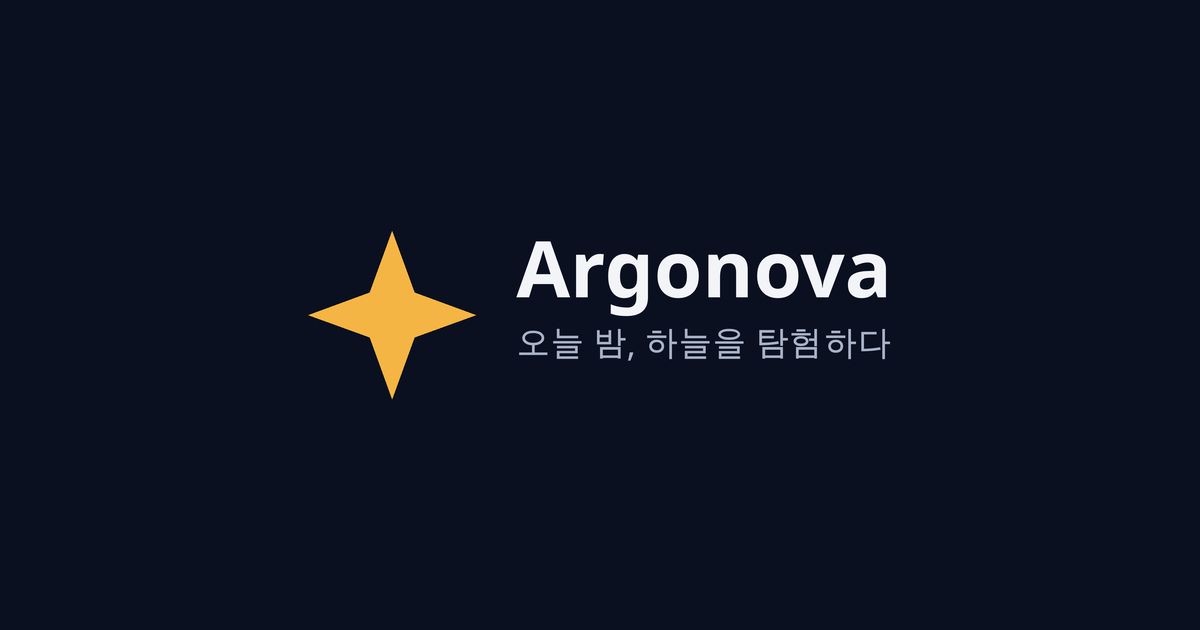
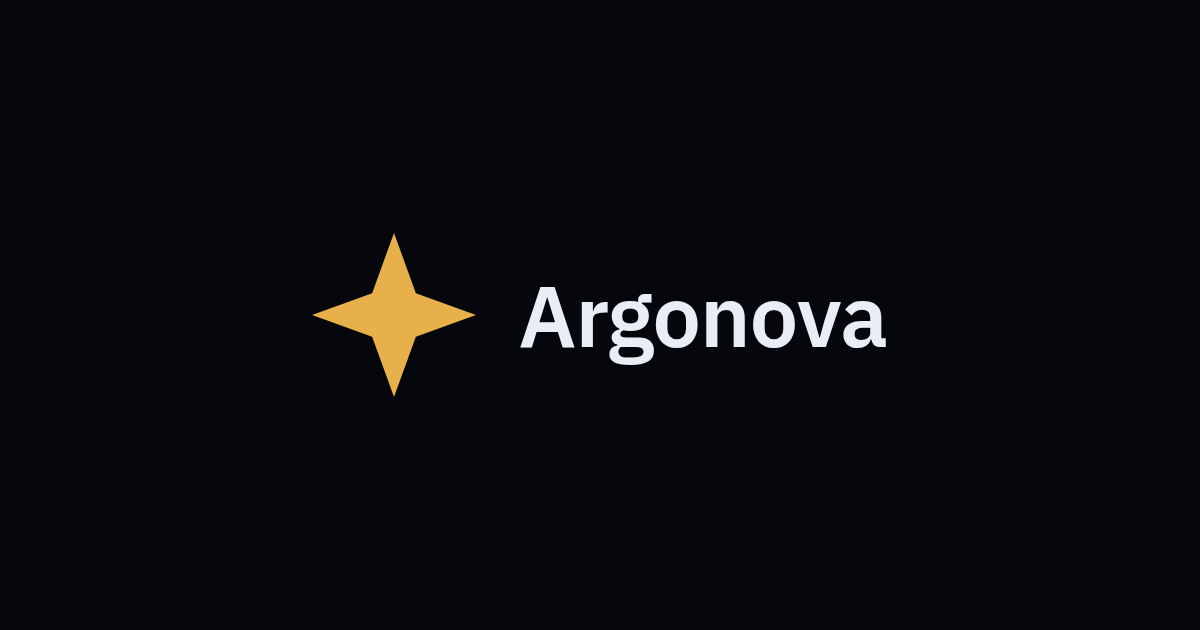
[task-27] 부제 문구 걷어내기 (#28)
* 날짜·지역을 첫 화면 제목으로 두고 부제 문구를 없앤다.

* 공유 이미지에서 부제 줄을 뺀다.

OG 카드는 앰버 별과 Argonova만 남기고 배경은 #05070D로 둔다.

---------

diff --git a/tests/i18n.test.ts b/tests/i18n.test.ts
@@ -1,6 +1,6 @@
 import { afterEach, describe, expect, it, vi } from "vitest";
 import { createApp } from "../src/app";
-import { en, ko, LANGUAGE_STORAGE_KEY, resolveLanguage, type MessageKey } from "../src/i18n";
+import { en, formatDatePlace, ko, LANGUAGE_STORAGE_KEY, resolveLanguage, type MessageKey } from "../src/i18n";
 import { formatLaunchDateTime } from "../src/launches";
 import { saveLocation } from "../src/location";
 import { directionSkyLabel, moonPhaseName } from "../src/sky";
@@ -68,6 +68,13 @@ describe("dictionaries", () => {
     }
   });
 
+  it("formats the date heading as a date and place", () => {
+    const when = new Date("2026-11-12T03:00:00.000Z");
+    expect(formatDatePlace(when, "서울", "ko")).toBe("11월 12일 (목) · 서울");
+    expect(formatDatePlace(when, "Seoul", "en")).toBe("11/12 (Thu) · Seoul");
+    expect(formatDatePlace(when, "", "ko")).toBe("11월 12일 (목)");
+  });
+
   it("keeps Hangul out of the English dictionary", () => {
     for (const [key, value] of Object.entries(en)) {
       expect(value, key).not.toMatch(HANGUL);
@@ -85,20 +92,20 @@ describe("language selection", () => {
 
     renderApp("en-US");
     expect(document.documentElement.lang).toBe("en");
-    expect(document.querySelector(".eyebrow")?.textContent).toBe("Explore tonight's sky.");
+    expect(document.querySelector("h1")?.textContent).toBe("11/12 (Thu)");
     expect(localStorage.getItem(LANGUAGE_STORAGE_KEY)).toBeNull();
   });
 
   it("keeps a saved choice ahead of the browser language", () => {
     localStorage.setItem(LANGUAGE_STORAGE_KEY, "en");
     renderApp("ko-KR");
-    expect(document.querySelector(".eyebrow")?.textContent).toBe("Explore tonight's sky.");
+    expect(document.querySelector("h1")?.textContent).toBe("11/12 (Thu)");
     expect(document.querySelector("#tab-tonight")?.getAttribute("aria-label")).toBe("Tonight");
   });
 
   it("switches language with the KO · EN button and stores the choice", () => {
     renderApp("ko-KR");
-    expect(document.querySelector(".eyebrow")?.textContent).toBe("오늘 밤, 하늘을 탐험하다");
+    expect(document.querySelector("h1")?.textContent).toBe("11월 12일 (목)");
     expect(document.querySelector("#language-button")?.textContent).toBe("KO · EN");
     expect(document.querySelector("#language-button [data-lang='ko']")?.classList.contains("is-current")).toBe(
       true,
@@ -108,7 +115,7 @@ describe("language selection", () => {
 
     expect(localStorage.getItem(LANGUAGE_STORAGE_KEY)).toBe("en");
     expect(document.documentElement.lang).toBe("en");
-    expect(document.querySelector(".eyebrow")?.textContent).toBe("Explore tonight's sky.");
+    expect(document.querySelector("h1")?.textContent).toBe("11/12 (Thu)");
     expect(document.querySelector("#tab-tonight span")?.textContent).toBe("Tonight");
     expect(document.querySelector("#desktop-tab-satellites")?.textContent).toBe("Satellite globe");
     expect(document.querySelector("#language-button [data-lang='en']")?.classList.contains("is-current")).toBe(
@@ -116,13 +123,13 @@ describe("language selection", () => {
     );
 
     document.body.innerHTML = "";
-    const again = createApp();
+    const again = createApp({ now: () => new Date("2026-11-12T12:00:00.000Z") });
     document.body.append(again);
-    expect(document.querySelector(".eyebrow")?.textContent).toBe("Explore tonight's sky.");
+    expect(document.querySelector("h1")?.textContent).toBe("11/12 (Thu)");
 
     document.querySelector<HTMLButtonElement>("#language-button")?.click();
     expect(localStorage.getItem(LANGUAGE_STORAGE_KEY)).toBe("ko");
-    expect(document.querySelector(".eyebrow")?.textContent).toBe("오늘 밤, 하늘을 탐험하다");
+    expect(document.querySelector("h1")?.textContent).toBe("11월 12일 (목)");
   });
 });
 

diff --git a/tests/copy.test.ts b/tests/copy.test.ts
@@ -1,0 +1,97 @@
+import { readdirSync, readFileSync } from "node:fs";
+import { join } from "node:path";
+import { describe, expect, it } from "vitest";
+
+declare const process: {
+  cwd(): string;
+};
+
+const ROOT = process.cwd();
+const SKIP_DIRS = new Set(["node_modules", "dist", ".git"]);
+const TEXT_EXT = new Set([
+  ".ts",
+  ".js",
+  ".mjs",
+  ".css",
+  ".html",
+  ".md",
+  ".json",
+  ".webmanifest",
+  ".svg",
+  ".yml",
+  ".txt",
+]);
+
+function readText(path: string): string {
+  return new TextDecoder().decode(readFileSync(path));
+}
+
+function relative(path: string): string {
+  const prefix = ROOT.endsWith("/") ? ROOT : `${ROOT}/`;
+  return path.startsWith(prefix) ? path.slice(prefix.length) : path;
+}
+
+function isDataPath(path: string): boolean {
+  const rel = relative(path);
+  return rel === "public/data" || rel.startsWith("public/data/");
+}
+
+function listDir(path: string): string[] | null {
+  try {
+    return readdirSync(path);
+  } catch {
+    return null;
+  }
+}
+
+function walk(dir: string, out: string[]): void {
+  const names = listDir(dir);
+  if (!names) {
+    return;
+  }
+  for (const name of names) {
+    if (SKIP_DIRS.has(name)) {
+      continue;
+    }
+    const path = join(dir, name);
+    if (isDataPath(path)) {
+      continue;
+    }
+    const children = listDir(path);
+    if (children) {
+      walk(path, out);
+      continue;
+    }
+    const dot = name.lastIndexOf(".");
+    const ext = dot >= 0 ? name.slice(dot) : "";
+    if (TEXT_EXT.has(ext)) {
+      out.push(path);
+    }
+  }
+}
+
+function filesContaining(needle: string): string[] {
+  const files: string[] = [];
+  walk(ROOT, files);
+  return files
+    .filter((file) => readText(file).includes(needle))
+    .map((file) => relative(file))
+    .sort();
+}
+
+describe("banned slogans", () => {
+  it("keeps the banned phrases only in the DESIGN.md prohibition", () => {
+    const explore = "탐" + "험";
+    const blurb = ["하늘", "위성", "발사 일정"].join(", ");
+    expect(filesContaining(explore)).toEqual(["DESIGN.md"]);
+    expect(filesContaining(blurb)).toEqual(["DESIGN.md"]);
+
+    const design = readText(join(ROOT, "DESIGN.md"));
+    const exploreLines = design.split("\n").filter((line) => line.includes(explore));
+    const blurbLines = design.split("\n").filter((line) => line.includes(blurb));
+    expect(exploreLines).toHaveLength(1);
+    expect(blurbLines).toHaveLength(1);
+    expect(exploreLines[0]).toContain("만들지 않는다");
+    expect(blurbLines[0]).toContain("만들지 않는다");
+  });
+});

diff --git a/tests/app.test.ts b/tests/app.test.ts
@@ -170,6 +170,7 @@ describe("location picker", () => {
     document.querySelector<HTMLButtonElement>("#region-busan")?.click();
 
     expect(document.querySelector("#location-label")?.textContent).toBe("부산");
+    expect(document.querySelector("h1")?.textContent).toContain(" · 부산");
     expect(JSON.parse(localStorage.getItem(LOCATION_STORAGE_KEY) ?? "{}")).toMatchObject({
       latitude: 35.2,
       longitude: 129.1,
@@ -180,7 +181,7 @@ describe("location picker", () => {
 });
 
 describe("Argonova frame", () => {
-  it("sets the page title, manifest name, and tagline to Argonova", () => {
+  it("sets the page title and manifest name to Argonova and the heading to the date", () => {
     const html = indexHtml;
     const manifest = JSON.parse(manifestText) as {
       name: string;
@@ -195,10 +196,11 @@ describe("Argonova frame", () => {
     expect(manifest.name).toBe("Argonova");
     expect(manifest.short_name).toBe("Argonova");
 
-    renderApp();
+    renderApp({ now: () => new Date("2026-11-12T03:00:00.000Z") });
     expect(document.title).toBe("Argonova");
-    expect(document.querySelector("h1")?.textContent).toBe("Argonova");
-    expect(document.querySelector(".eyebrow")?.textContent).toBe("오늘 밤, 하늘을 탐험하다");
+    expect(document.querySelector("h1")?.textContent).toBe("11월 12일 (목)");
+    expect(document.querySelector(".eyebrow")).toBeNull();
+    expect(document.querySelector("#tracked-summary")).not.toBeNull();
     expect(getComputedStyle(document.body).fontFamily).toContain("IBM Plex Sans KR");
   });
 

diff --git a/src/app.ts b/src/app.ts
@@ -25,6 +25,7 @@ import {
   type GlobeView,
 } from "./globe-layout";
 import {
+  formatDatePlace,
   meteorNameKey,
   planetNameKey,
   regionNameKey,
@@ -2121,19 +2122,15 @@ export function createApp(options: AppOptions = {}): HTMLElement {
   const heroCopy = document.createElement("div");
   heroCopy.className = "hero-copy";
 
-  const eyebrow = document.createElement("p");
-  eyebrow.className = "eyebrow";
-  bindText(eyebrow, "brandTagline");
-
   const title = document.createElement("h1");
-  title.textContent = BRAND_NAME;
+  title.id = "date-heading";
 
   const trackedSummary = document.createElement("p");
   trackedSummary.id = "tracked-summary";
   trackedSummary.className = "tracked-summary";
   bindText(trackedSummary, "trackedPending");
 
-  heroCopy.append(eyebrow, title, trackedSummary);
+  heroCopy.append(title, trackedSummary);
 
   const heroActions = document.createElement("div");
   heroActions.className = "hero-actions";
@@ -2226,6 +2223,7 @@ export function createApp(options: AppOptions = {}): HTMLElement {
   const setLocationLabel = () => {
     const stored = loadLocation(localStorage);
     const label = stored ? locationDisplay(stored) : tr("locationChoose");
+    title.textContent = formatDatePlace(now(), stored ? label : "", locale);
     locationLabel.textContent = label;
     locationButton.setAttribute("aria-label", stored ? tr("locationChange", { label }) : label);
 

diff --git a/index.html b/index.html
@@ -6,7 +6,7 @@
     <title>Argonova</title>
     <meta
       name="description"
-      content="오늘 밤, 하늘을 탐험하다. 내 위치의 하늘, 실시간 위성, 로켓 발사 일정."
+      content="선택한 위치의 밤하늘과 위성 위치, 로켓 발사 시각."
     />
     <meta name="theme-color" content="#05070D" />
     <meta name="mobile-web-app-capable" content="yes" />
@@ -19,7 +19,7 @@
     <meta property="og:title" content="Argonova" />
     <meta
       property="og:description"
-      content="오늘 밤, 하늘을 탐험하다. 내 위치의 하늘, 실시간 위성, 로켓 발사 일정."
+      content="선택한 위치의 밤하늘과 위성 위치, 로켓 발사 시각."
     />
     <meta property="og:url" content="https://argonova.pages.dev" />
     <meta property="og:image" content="https://argonova.pages.dev/og.png" />
@@ -31,7 +31,7 @@
     <meta name="twitter:title" content="Argonova" />
     <meta
       name="twitter:description"
-      content="오늘 밤, 하늘을 탐험하다. 내 위치의 하늘, 실시간 위성, 로켓 발사 일정."
+      content="선택한 위치의 밤하늘과 위성 위치, 로켓 발사 시각."
     />
     <meta name="twitter:image" content="https://argonova.pages.dev/og.png" />
     <link rel="icon" href="./favicon.svg" type="image/svg+xml" />

diff --git a/src/i18n/index.ts b/src/i18n/index.ts
@@ -50,6 +50,22 @@ export function translate(
   });
 }
 
+/** 화면의 날짜는 지금처럼 한국표준시(UTC+9, 일광절약시간 없음) 달력을 쓴다. */
+const KST_OFFSET_MS = 9 * 60 * 60 * 1000;
+
+/**
+ * 첫 화면 제목. 장소가 있으면 `11월 12일 (목) · 서울`, 없으면 날짜만.
+ * 슬로건을 붙이지 않는다.
+ */
+export function formatDatePlace(date: Date, place: string, locale: Locale): string {
+  const shifted = new Date(date.getTime() + KST_OFFSET_MS);
+  const month = shifted.getUTCMonth() + 1;
+  const day = shifted.getUTCDate();
+  const weekday = weekdayLabel(shifted.getUTCDay(), locale);
+  const values = { month, day, weekday, place };
+  return place ? translate(locale, "datePlace", values) : translate(locale, "dateLine", values);
+}
+
 const WEEKDAY_KEYS = [
   "weekdaySun",
   "weekdayMon",

diff --git a/src/styles.css b/src/styles.css
@@ -82,16 +82,6 @@ button {
   min-width: 0;
 }
 
-.eyebrow {
-  margin: 0;
-  color: var(--muted);
-  font-size: 13px;
-  font-weight: 400;
-  letter-spacing: 0;
-  line-height: 1.4;
-  text-transform: none;
-}
-
 h1,
 h2,
 h3,
@@ -1398,19 +1388,6 @@ h1 {
 }
 
 .is-desktop .hero h1 {
-  position: absolute;
-  width: 1px;
-  height: 1px;
-  margin: -1px;
-  padding: 0;
-  overflow: hidden;
-  clip: rect(0, 0, 0, 0);
-  white-space: nowrap;
-  border: 0;
-}
-
-.is-desktop .eyebrow {
-  color: var(--text);
   font-size: 34px;
   font-weight: 600;
   letter-spacing: -0.5px;

diff --git a/tests/share.test.ts b/tests/share.test.ts
@@ -8,7 +8,7 @@ declare const process: {
   cwd(): string;
 };
 
-const DESCRIPTION = "오늘 밤, 하늘을 탐험하다. 내 위치의 하늘, 실시간 위성, 로켓 발사 일정.";
+const DESCRIPTION = "선택한 위치의 밤하늘과 위성 위치, 로켓 발사 시각.";
 const SITE = "https://argonova.pages.dev";
 const STAR_PATH = "M12 2l2.4 6.6L21 11l-6.6 2.4L12 20l-2.4-6.6L3 11l6.6-2.4z";
 const ROOT = process.cwd();

diff --git a/tests/design.test.ts b/tests/design.test.ts
@@ -126,7 +126,7 @@ describe("observatory design tokens", () => {
     fits(390);
 
     renderAt(1440);
-    expect(getComputedStyle(document.querySelector(".eyebrow") as HTMLElement).fontSize).toBe("34px");
+    expect(getComputedStyle(document.querySelector("h1") as HTMLElement).fontSize).toBe("34px");
     expect(document.querySelector(".app-shell")?.classList.contains("is-desktop")).toBe(true);
     fits(1440);
   });

diff --git a/mockup-desktop.html b/mockup-desktop.html
@@ -65,7 +65,7 @@ h1{margin:4px 0 0;font-size:34px;font-weight:700;letter-spacing:-.5px}
 </div>
 </header>
 <main class="wrap">
-<div><span class="sub" style="font-size:14px">11월 12일 (수) · 서울 · 예시</span><h1>오늘 밤, 하늘을 탐험하다</h1></div>
+<div><h1>11월 12일 (수) · 서울 · 예시</h1></div>
 <div class="row">
 <section class="left" aria-label="오늘 밤 요약">
 <div class="g3">

diff --git a/src/i18n/en.ts b/src/i18n/en.ts
@@ -2,7 +2,8 @@ import type { MessageKey } from "./ko";
 
 /** 화면 문구 영어 사전. 한국어 사전과 키가 같아야 한다. */
 export const en = {
-  brandTagline: "Explore tonight's sky.",
+  dateLine: "{month}/{day} ({weekday})",
+  datePlace: "{month}/{day} ({weekday}) · {place}",
   tabTonight: "Tonight",
   tabSatellites: "Satellite globe",
   tabLaunches: "Launches",

diff --git a/src/i18n/ko.ts b/src/i18n/ko.ts
@@ -1,6 +1,7 @@
 /** 화면 문구 한국어 사전. 영어 사전과 키가 같아야 한다. */
 export const ko = {
-  brandTagline: "오늘 밤, 하늘을 탐험하다",
+  dateLine: "{month}월 {day}일 ({weekday})",
+  datePlace: "{month}월 {day}일 ({weekday}) · {place}",
   tabTonight: "오늘 밤",
   tabSatellites: "위성 지구본",
   tabLaunches: "발사 일정",
